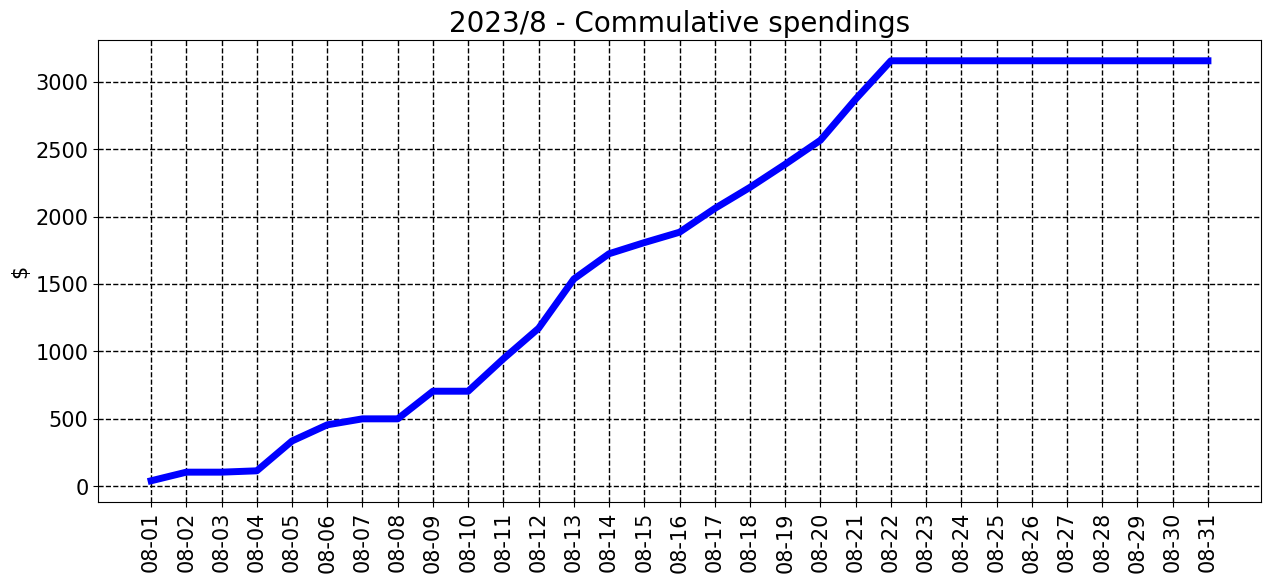
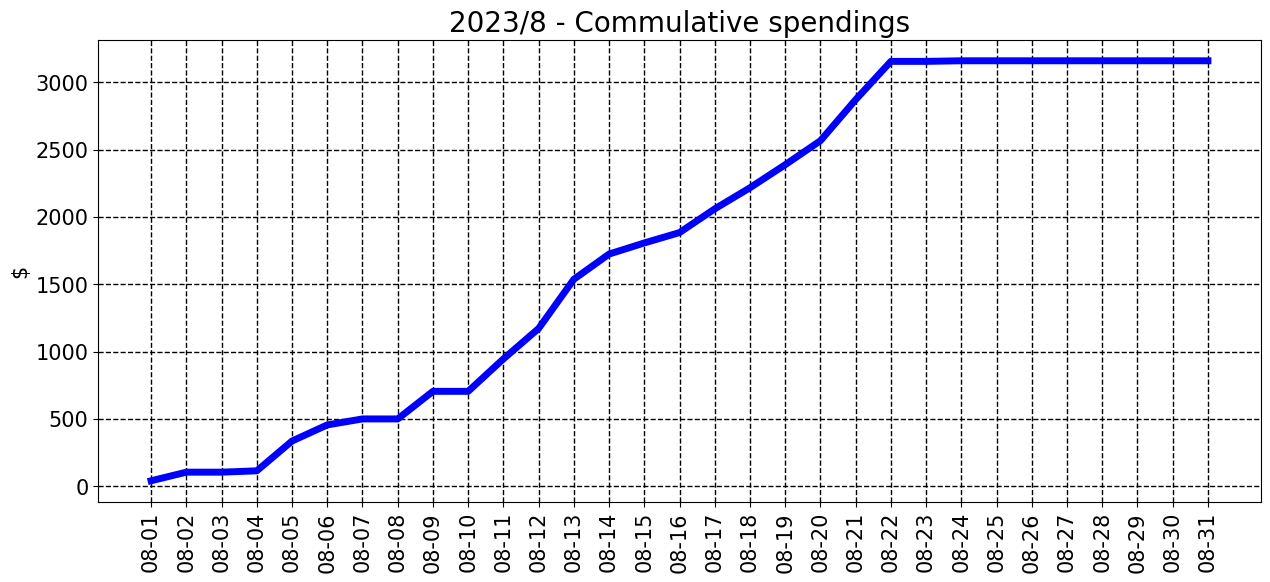
commit from python

diff --git a/README.md b/README.md
@@ -7,7 +7,7 @@ __________________________________
 <sub><sup>
 | Spent | Avg daily | End of month projection | Spent since 2023/7 |
 |---|---|---|---|
-| $3155.0  |  $131.5  | $4076.0  |  $3544.0  |
+| $3160.0  |  $131.7  | $4083.0  |  $3548.0  |
 </sub></sup>
 __________________________________
 ![graph_8_sum](graph_8_sum.png)
